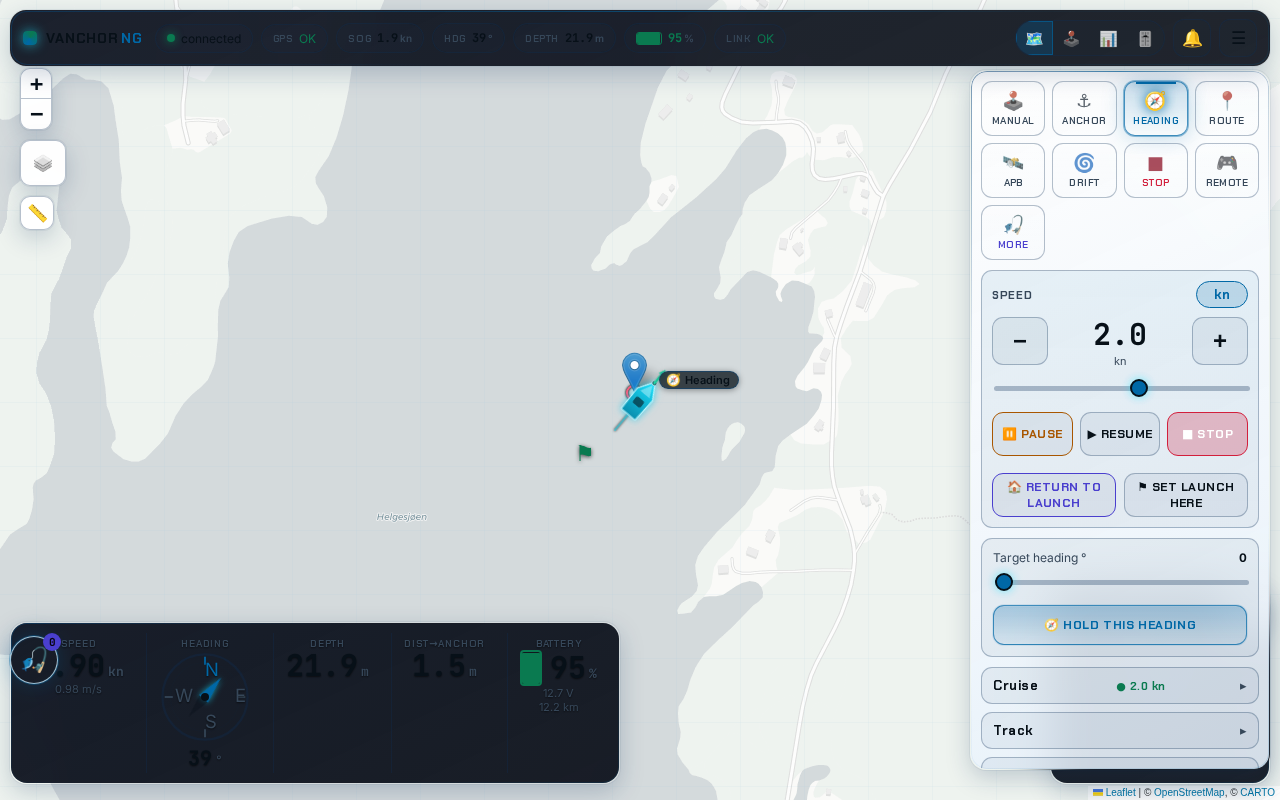
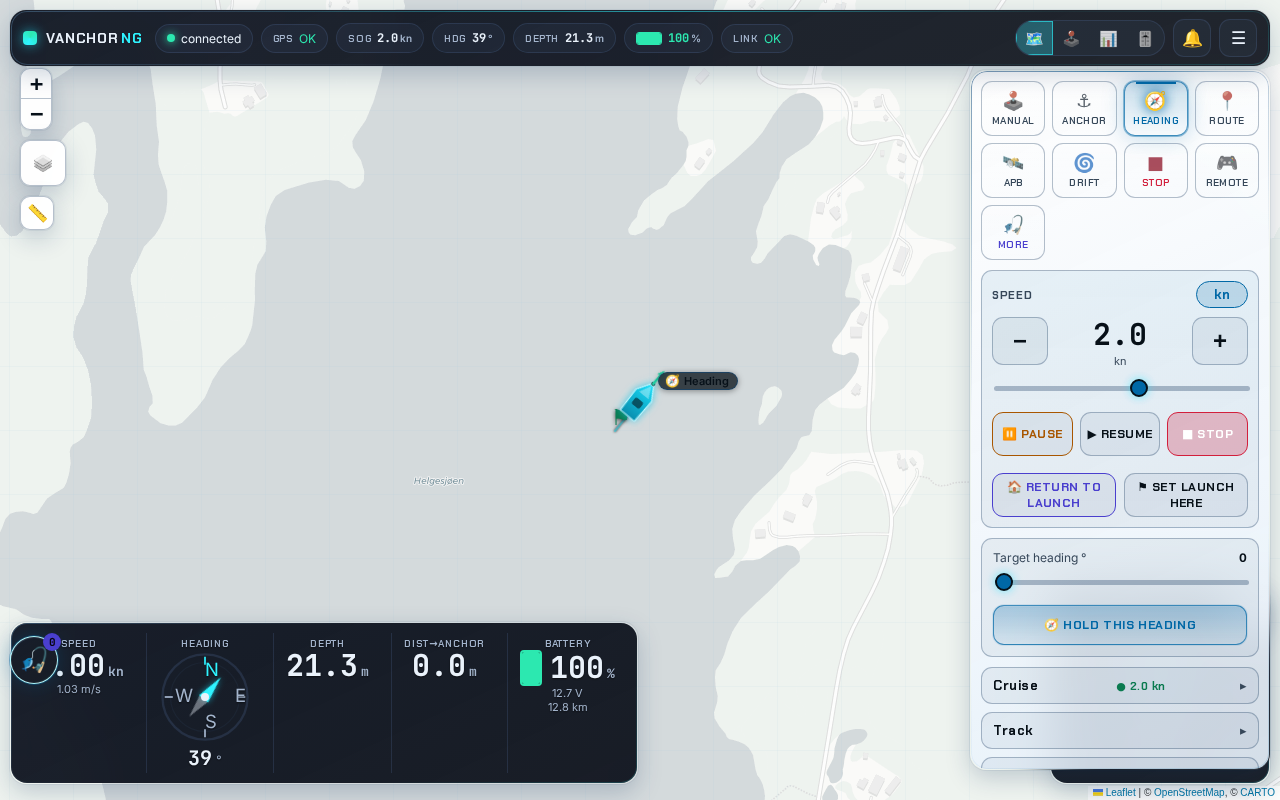
daylight theme: keep light text inside the deliberately-dark chrome
The topbar and the always-on HUD/steering readouts intentionally keep a dark
backing so they stay readable over bright basemaps — but the daylight theme
flipped --text/--muted/accents to the dark-on-white palette page-wide, leaving
those panels dim dark-on-dark (visible in the old screenshot). Re-scope the
dark-theme text/accent variables locally on .topbar/.hud/.steering-gauge/
.catch-fab under the daylight selectors; the dark theme is untouched.
Retook docs/images/daylight.png with the fix.

diff --git a/src/vanchor/ui/static/style.css b/src/vanchor/ui/static/style.css
@@ -107,6 +107,33 @@ body.light.theme-daylight {
 html[data-theme="daylight"] body::before,
 body.light.theme-daylight::before { background: var(--bg); }
 
+/* Daylight: the topbar and the always-on HUD/steering readouts keep their
+   DELIBERATELY dark backing (that darkness is what keeps them readable over the
+   bright Light/Topo/Satellite basemaps) -- so the text inside them must stay
+   LIGHT. Re-scope the dark-theme text/accent palette locally instead of letting
+   the page-wide dark-on-white palette bleed in (which made these panels read as
+   dim dark-on-dark in the daylight theme). */
+html[data-theme="daylight"] .topbar,
+html[data-theme="daylight"] .hud,
+html[data-theme="daylight"] .steering-gauge,
+html[data-theme="daylight"] .catch-fab,
+body.light.theme-daylight .topbar,
+body.light.theme-daylight .hud,
+body.light.theme-daylight .steering-gauge,
+body.light.theme-daylight .catch-fab {
+  --text: #eaf2fb;
+  --muted: #a3b4cc;
+  --faint: rgba(120, 170, 255, 0.05);
+  --line: rgba(130, 180, 255, 0.13);
+  --line-bright: rgba(130, 200, 255, 0.28);
+  --accent: #2ff3ff;
+  --accent-rgb: 47, 243, 255;
+  --accent-2: #2ce8b0;
+  --active: #2ce8b0;
+  --warn: #ffc24d;
+  --stop: #ff5d7e;
+}
+
 /* Deep tactical backdrop: gradient + faint grid + vignette, beneath the map. */
 body::before {
   content: ""; position: fixed; inset: 0; z-index: -1; pointer-events: none;